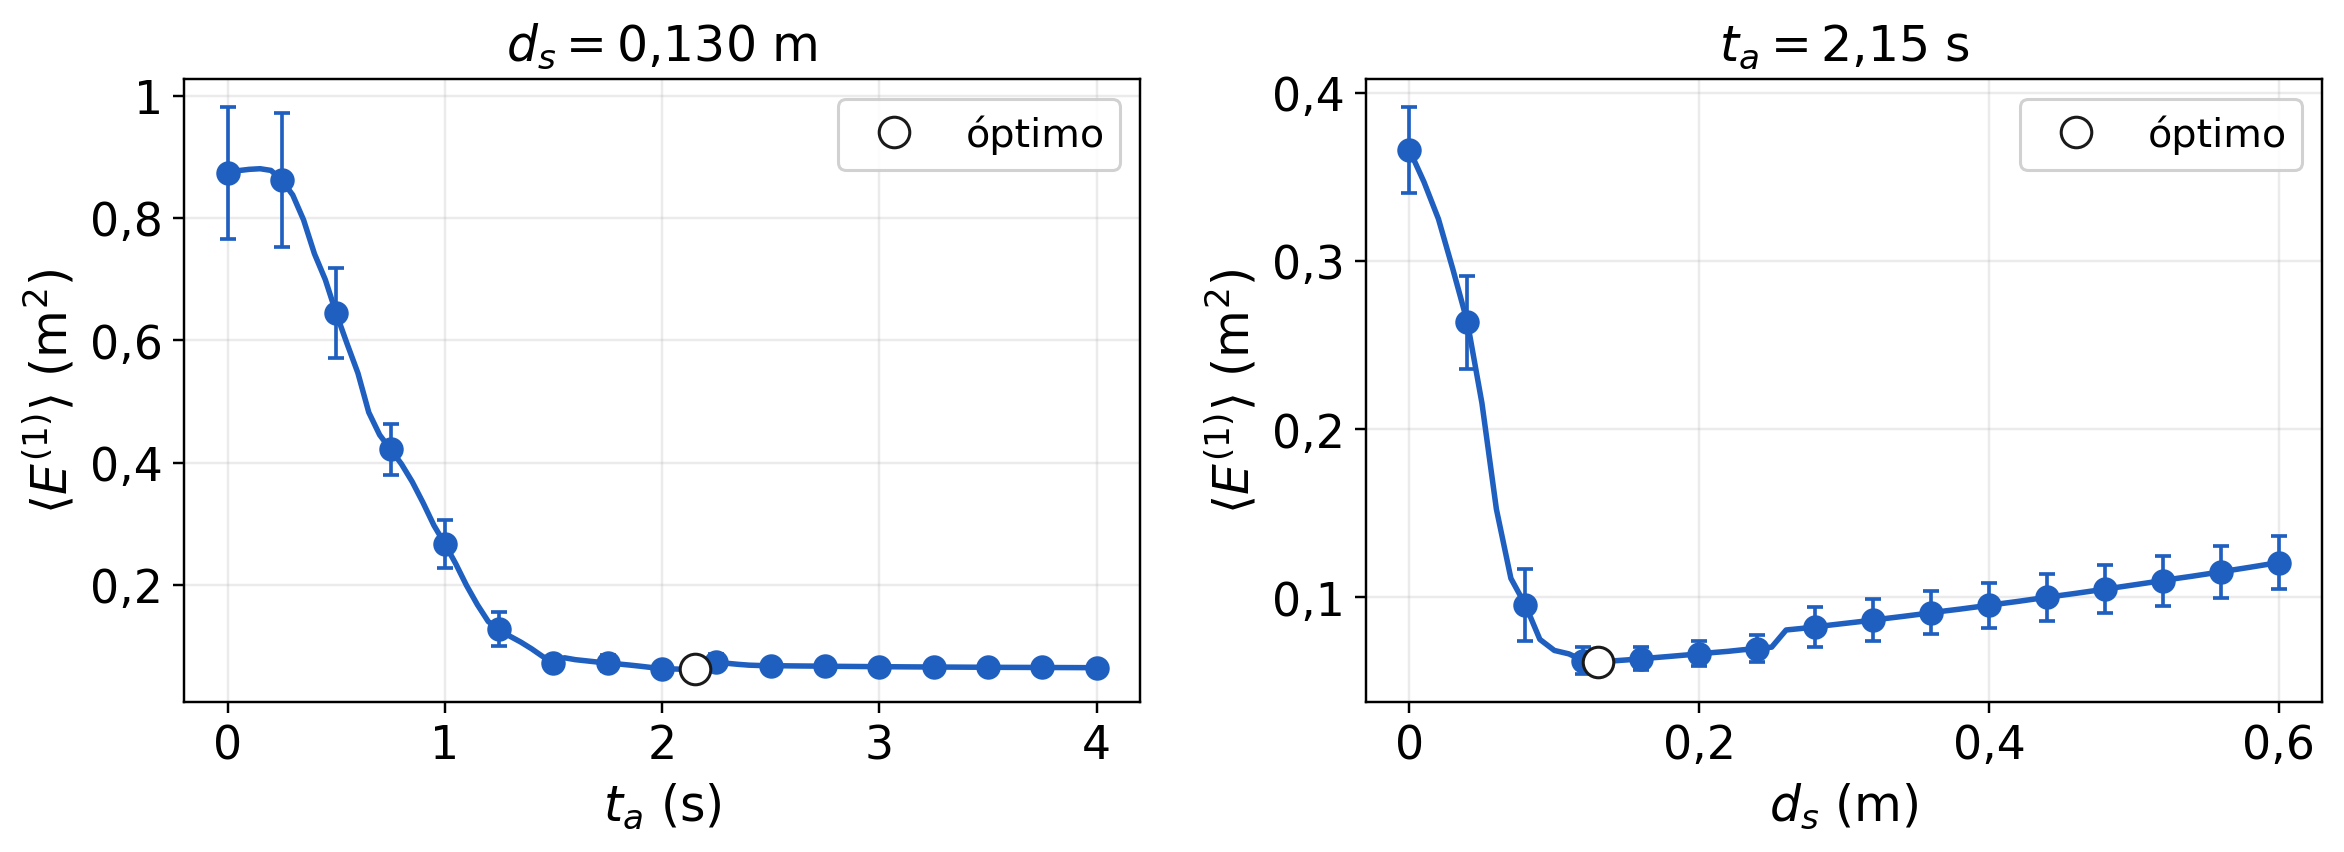
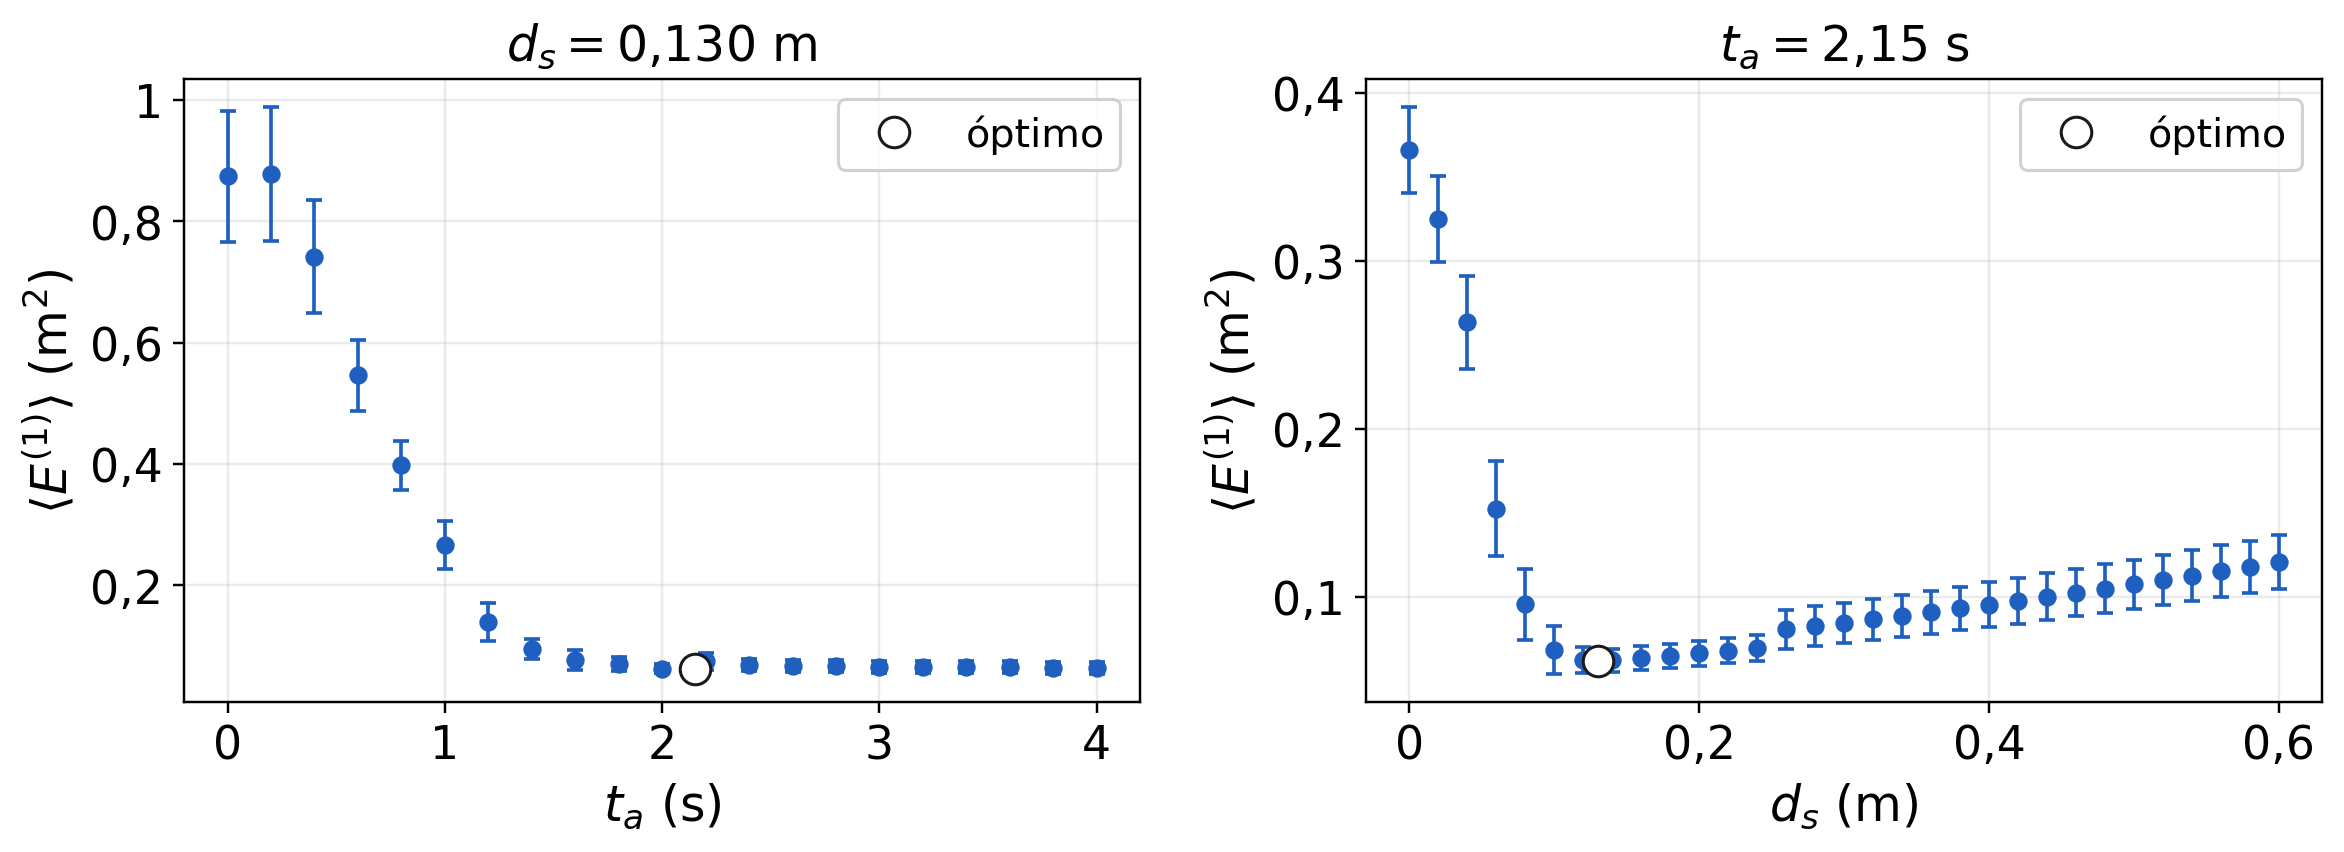
Cortes y curva de α: puntos sin línea que los una, y más puntos

diff --git a/visualization/population.py b/visualization/population.py
@@ -71,8 +71,8 @@ def surface(p1, p2, mean, metric, figures, style):
 def cuts(p1, p2, event_error, region, metric, figures, style):
     """Los dos cortes que pasan por el optimo, con sus barras de error.
 
-    La curva va entera y las barras cada pocos puntos: con 81 y 61 valores de
-    grilla, una barra por punto tapa la curva. La barra es el error estandar de
+    Van solo los puntos, sin linea que los una, y no todos: con 81 y 61 valores
+    de grilla, un punto por valor satura el panel. La barra es el error estandar de
     la media entre los M eventos. El optimo no lleva linea vertical ni franja:
     se marca con un punto blanco, igual que en el mapa, y figura en la leyenda.
     """
@@ -85,10 +85,14 @@ def cuts(p1, p2, event_error, region, metric, figures, style):
     for axes, values, curve, bars, label, best, inside in (
             (axesrow[0], p1, mean[:, j], sem[:, j], common.AXIS_P1, p1[i], region[:, j]),
             (axesrow[1], p2, mean[i, :], sem[i, :], common.AXIS_P2, p2[j], region[i, :])):
-        every = max(1, len(values) // 14)
-        axes.plot(values, curve, color=color, linewidth=1.8)
+        # Solo puntos, sin linea que los una: cada punto es un valor simulado
+        # de la grilla (uno de cada cuatro en t_a, uno de cada dos en d_s). El
+        # salto es el menor que deja a lo sumo unos 32 puntos y llega justo
+        # al ultimo valor de la grilla.
+        every = next(k for k in range(1, len(values))
+                     if k >= len(values) / 32 and (len(values) - 1) % k == 0)
         axes.errorbar(values[::every], curve[::every], yerr=bars[::every], color=color,
-                      marker=marker, **common.ERRORBAR)
+                      marker=marker, markersize=5, **common.ERRORBAR)
         # Sin linea ni franja: el optimo va como en el mapa, un punto blanco
         # con borde, y con su entrada en la leyenda.
         index = int(np.argmin(np.abs(values - best)))

diff --git a/visualization/asymmetry.py b/visualization/asymmetry.py
@@ -212,10 +212,9 @@ def main() -> None:
     gain = cut[half, :] - own_error
 
     curve, axes = plt.subplots(figsize=single)
-    every = max(1, len(shares) // 14)
-    axes.plot(shares, mean, color=color, linewidth=1.8)
-    axes.errorbar(shares[::every], mean[::every], yerr=sem[::every], color=color,
-                  marker=marker, **common.ERRORBAR)
+    # Solo puntos, sin linea que los una: los 41 valores de alfa simulados.
+    axes.errorbar(shares, mean, yerr=sem, color=color, marker=marker, markersize=5,
+                  **common.ERRORBAR)
     # Sin la linea del optimo: el valor se escribe a mano en la diapositiva.
     axes.set_xlabel(common.AXIS_ALPHA)
     axes.set_ylabel(common.METRIC_AVERAGE[metric])

diff --git a/README.md b/README.md
@@ -472,7 +472,9 @@ Los dos óptimos coinciden en `d_s` y difieren en `t_a`. Usar el óptimo de la
 métrica 2 cuesta un 1,9 % de `<E(1)>`; al revés, un 18 % de `<E(2)>`.
 
 La figura de los cortes no lleva línea vertical ni franja en el óptimo (el
-valor se escribe en la diapositiva): son la curva, sus barras de error y el
+valor se escribe en la diapositiva): son puntos sueltos, sin línea que los una (uno de cada cuatro valores de la
+grilla en `t_a` y uno de cada dos en `d_s`; en la curva de `α`, los 41), sus
+barras de error y el
 óptimo marcado con un punto blanco, igual que en el mapa, con su entrada en la
 leyenda. Los `d_s` que empatan con el óptimo según la
 diferencia pareada se informan por consola.
